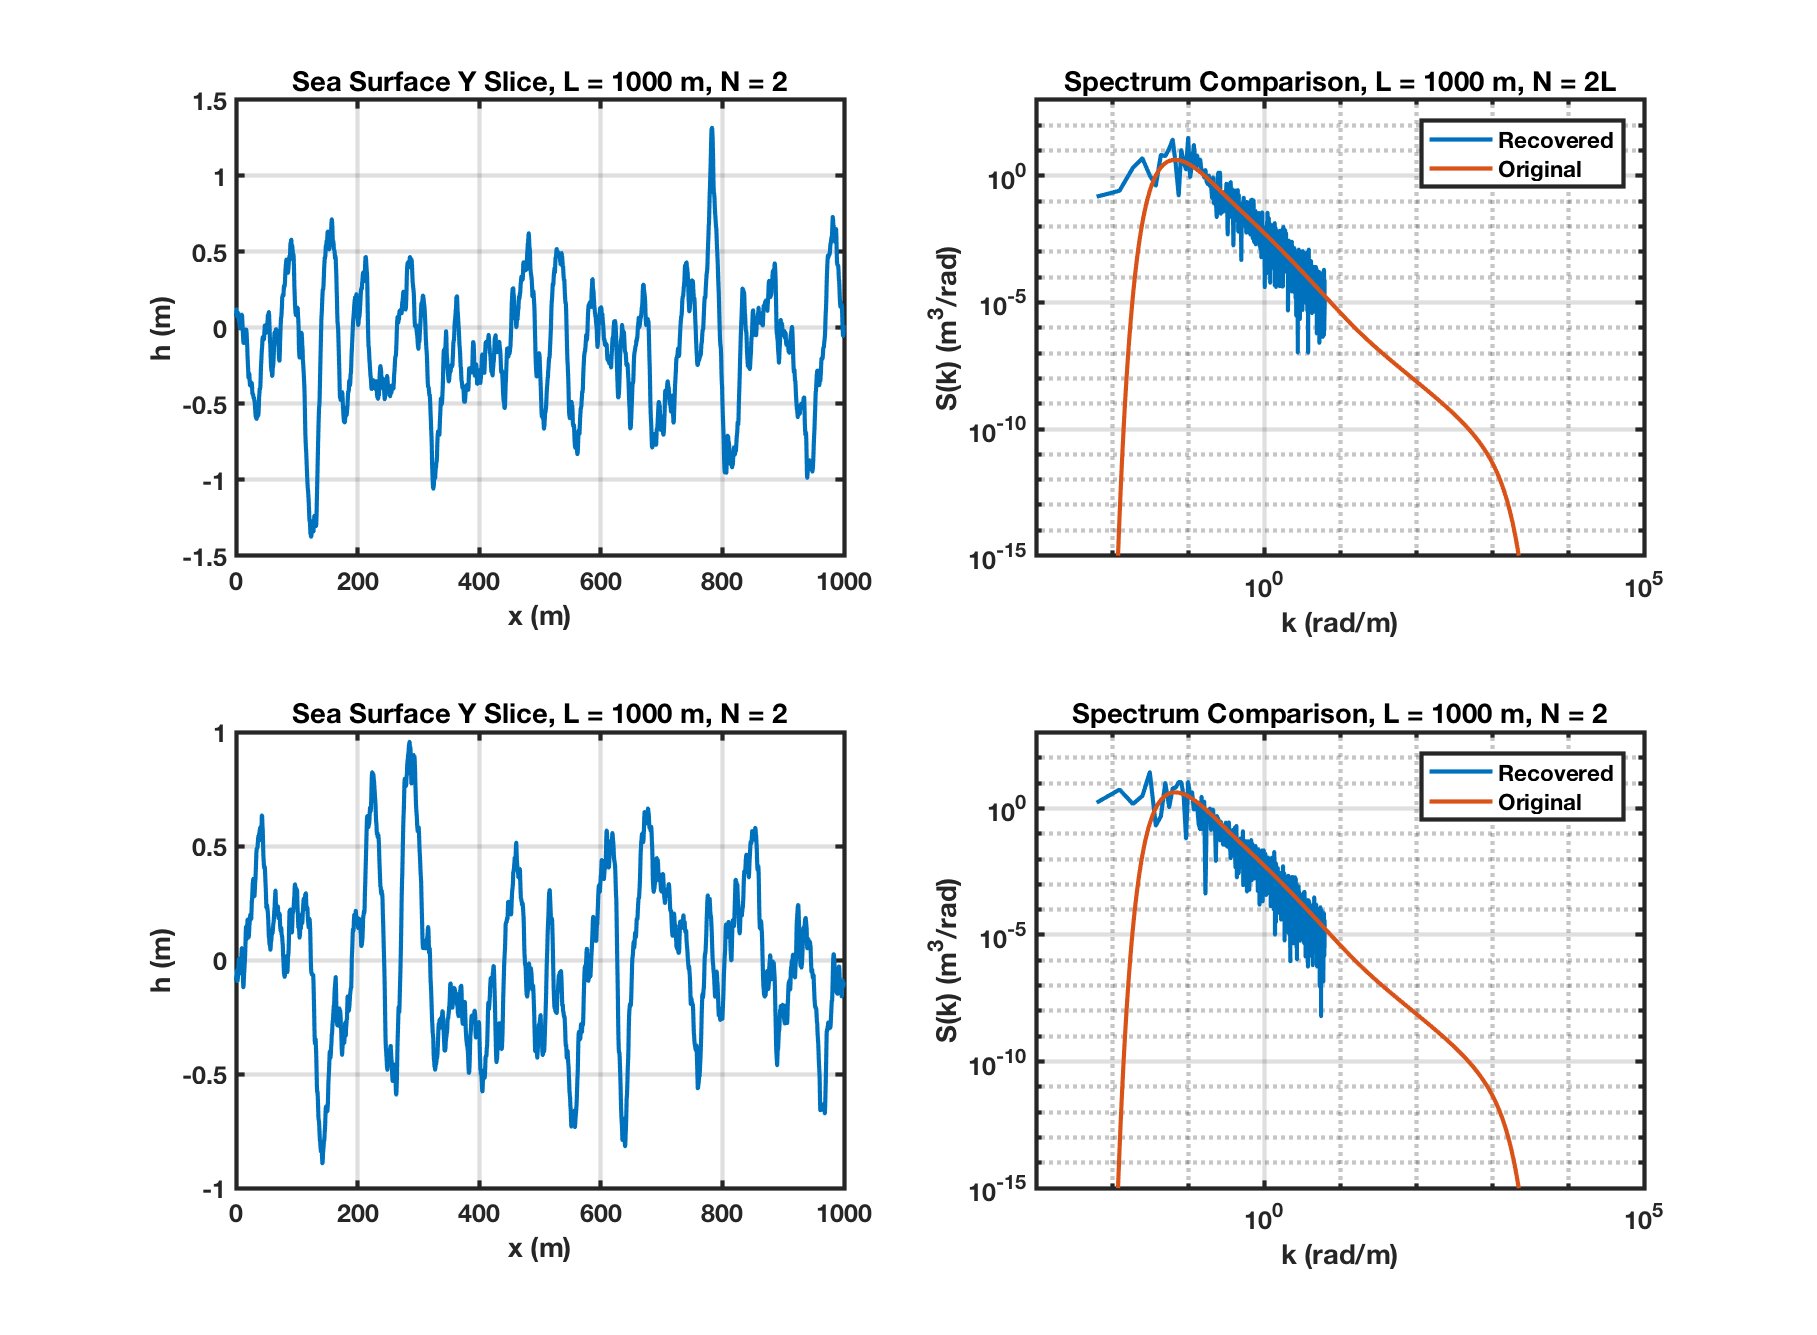
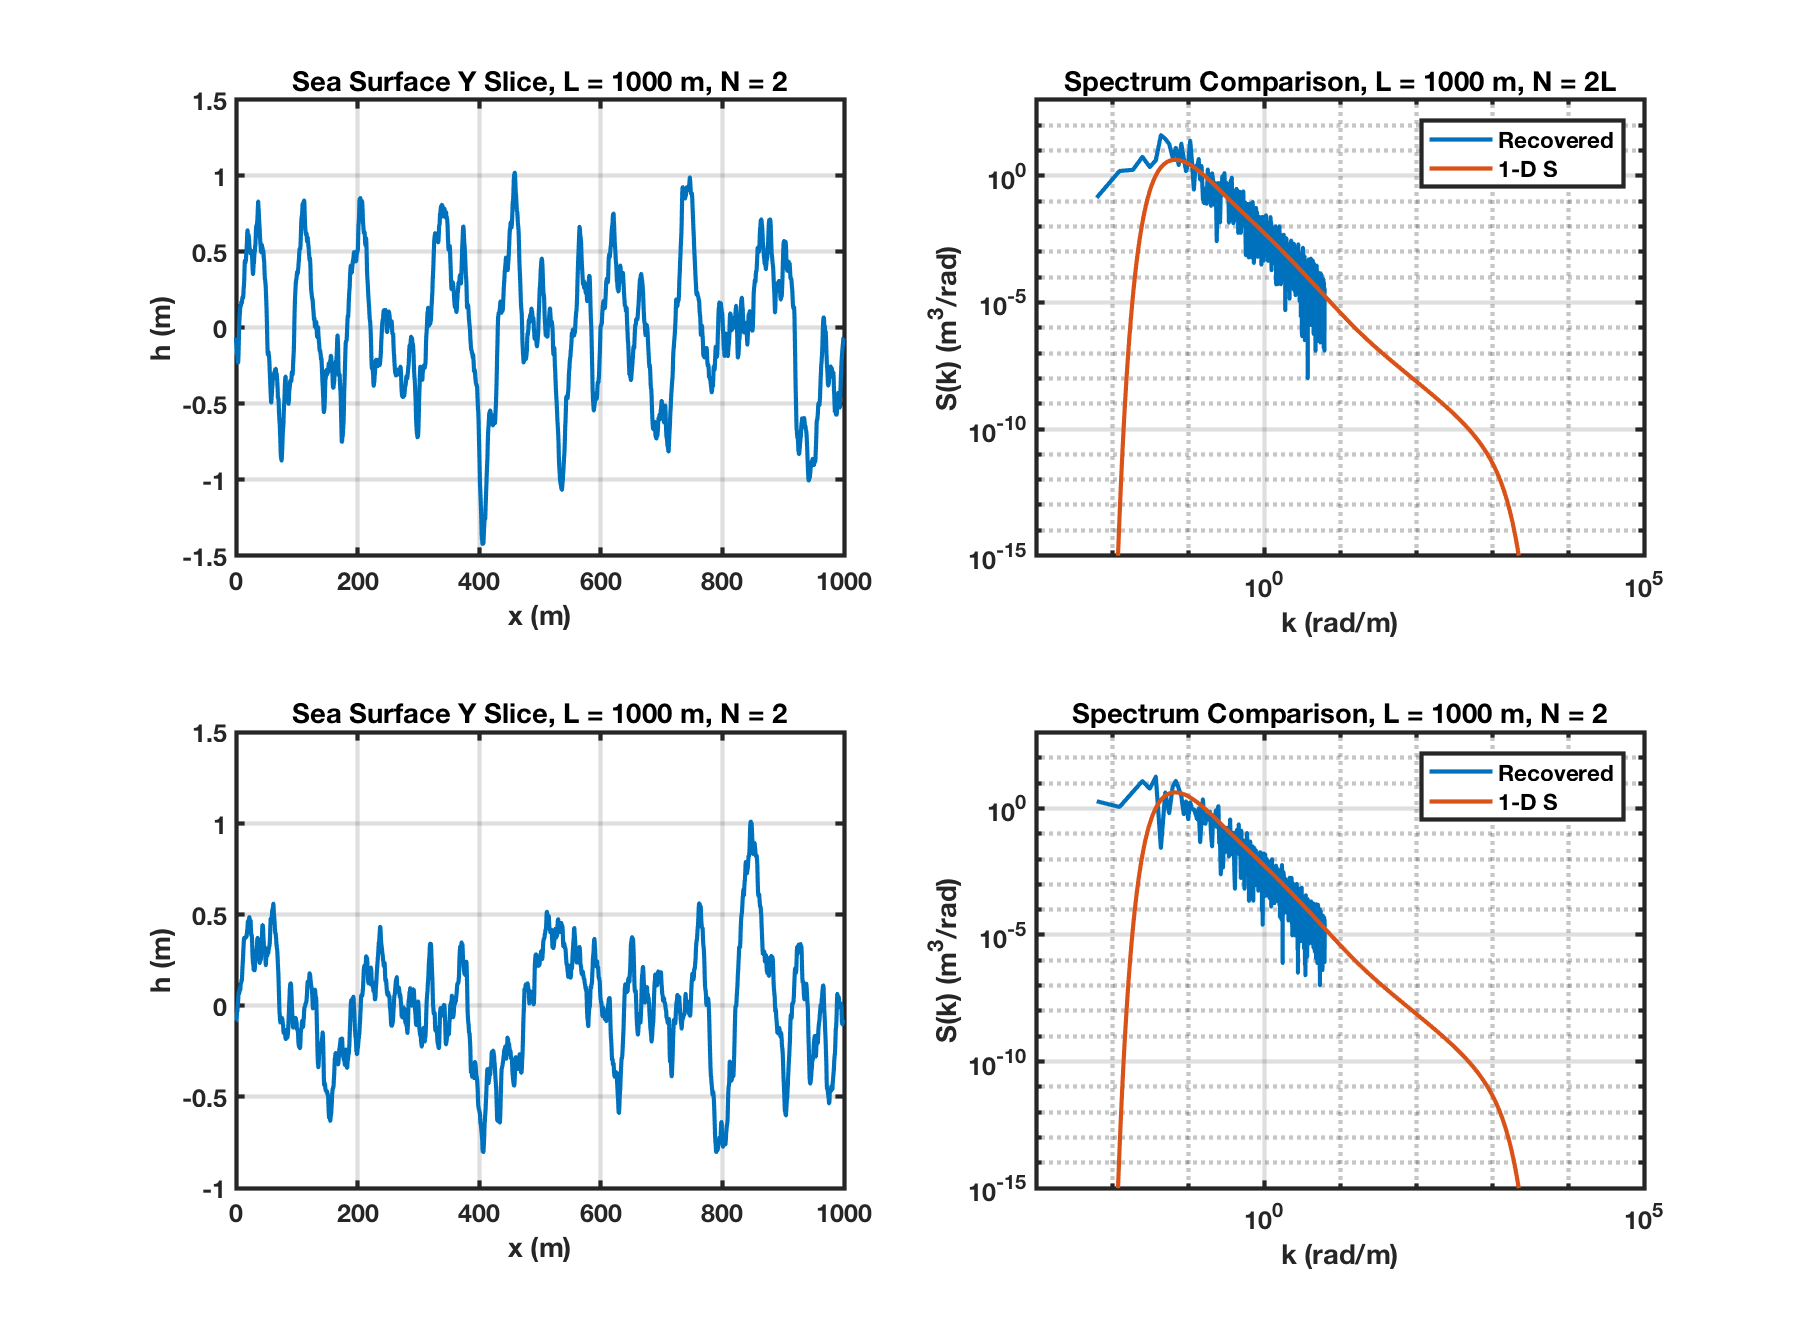
Adding 2D Power Spectrum plots

diff --git a/src/ocean_surface_generation.tex b/src/ocean_surface_generation.tex
@@ -293,6 +293,30 @@ The complete 2-dimensional unified Elfouhaily spectrum is given in Equation \ref
 \boxed{\Psi(k,\phi) = \frac{1}{2\pi k^4}\left[B_l + B_h \right] \left[1 + \Delta(k)\cos(2\phi) \right]}
 \end{equation}
 
+Figure \ref{os_fig:7bb} shows the 2-D variance and curvature power spectra on a log scale. In the curvature spectrum, we can see the secondary peak as in the 1-dimensional case.
+\begin{figure}[H]
+  \begin{center}
+\includegraphics[width=6in]{../media/Ocean_Surface/elf_variance_curvature_spectrum_2D.png}
+  \end{center}
+  \renewcommand{\baselinestretch}{1} \small\normalsize
+  \begin{quote}
+    \caption[Elfouhaily 2-D Variance and Curvature Power Spectra]{Elfouhaily 2-D Variance and Curvature Power Spectra\label{os_fig:7bb}}
+  \end{quote}
+\end{figure}
+\renewcommand{\baselinestretch}{2} \small\normalsize
+
+Figure \ref{os_fig:7cc} shows the low frequency behavior of the 2-D variance power spectrum.
+\begin{figure}[H]
+  \begin{center}
+\includegraphics[width=4in]{../media/Ocean_Surface/elf_variance_spectrum_2D_zoom.png}
+  \end{center}
+  \renewcommand{\baselinestretch}{1} \small\normalsize
+  \begin{quote}
+    \caption[Elfouhaily 2-D Variance Power Spectrum]{Elfouhaily 2-D Variance Power Spectrum\label{os_fig:7cc}}
+  \end{quote}
+\end{figure}
+\renewcommand{\baselinestretch}{2} \small\normalsize
+
 \section{Generation of Sea Surface Realizations in 1-Dimension}\label{os_sec:1d}
 Realizations of sea surfaces rely on having adequate sampling to cover both the spectral and spatial ranges of interest and then generating an appropriate set of Fourier coefficients. The 1-dimensional case is easiest to both understand and implement and will be discussed first.
 
@@ -318,7 +342,7 @@ Since $L$ is the same for each case, $\Delta k$ is also the same and we can see 
 
 In many situations, we are not concerned with capturing the high spatial frequencies as much as we are with staying below a pre-defined maximum spatial step. This step is typically on the order of 0.5 m, in which case $N = 2L$.
 
-As a final note for sampling constraints, we need to maintain integer indexing for digital implementation so $N$ must be an even number. Because we will be using an FFT, it is convenient to force $N$ to be a power of 2. We will define the range in $k$-space as running from $-\left(\frac{N}{2}-1\right)\Delta k$ to $\frac{N}{2}\Delta k$.
+As a final note for sampling constraints, we need to maintain integer indexing for digital implementation so $N$ must be an even integer to allow the element $N/2$ to be an integer as well. We will define the range in $k$-space as running from $-\left(\frac{N}{2}-1\right)\Delta k$ to $\frac{N}{2}\Delta k$.
 
 \subsection{Frequency Domain Representation}
 The general idea is to use the power spectrum to create a realization of the sea surface in the frequency domain and then transform that to the spatial domain through an inverse Fourier transform. We will follow the procedure outlined in \cite{percival_spectra}, 

diff --git a/mfiles/generateOceanSurface2DTestPlots.m b/mfiles/generateOceanSurface2DTestPlots.m
@@ -98,7 +98,7 @@ subplot(2,2,2)
 loglog(kx(N/2+1:end),Pxx1(1:N/2),'LineWidth',2);
 hold on
 loglog(k1,Elfouhaily(k1,U10,age),'LineWidth',2);
-legend('Recovered','Original')
+legend('Recovered','1-D S')
 ylim([10^-15 10^3])
 xlim([10^-3 10^5]);
 grid on
@@ -126,7 +126,7 @@ subplot(2,2,4)
 loglog(kx(N/2+1:end),Pxx2(1:N/2),'LineWidth',2);
 hold on
 loglog(k1,Elfouhaily(k1,U10,age),'LineWidth',2);
-legend('Recovered','Original')
+legend('Recovered','1-D S')
 ylim([10^-15 10^3])
 xlim([10^-3 10^5]);
 grid on
